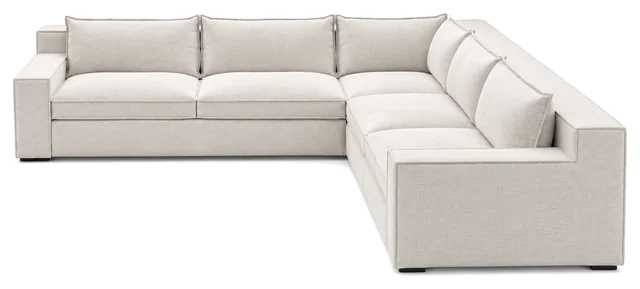
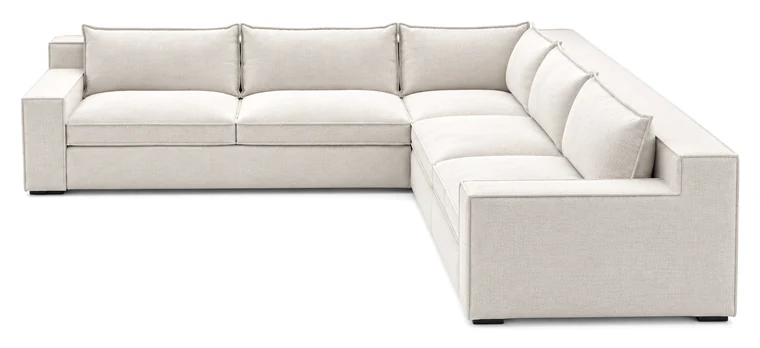
Fotos de categoría en tono claro, modular completo y foto editable desde el admin
Claude-Session: https://claude.ai/code/session_01VTdVdZyDkrQh4EYQ2xrgpJ

diff --git a/src/admin/catalogo/AdminProducts.jsx b/src/admin/catalogo/AdminProducts.jsx
@@ -64,6 +64,7 @@ function Tabbar() {
 
 // ---------- Gestionar categorías (renombrar / activar-desactivar, sin salir de Productos) ----------
 function GestionCategoriasModal({ open, categorias, onClose, onChanged }) {
+  const [subiendo, setSubiendo] = useState(null)
   if (!open) return null
   const toggleActivo = async (row) => {
     await supabase.from('categorias').update({ activo: !row.activo }).eq('id', row.id)
@@ -74,6 +75,28 @@ function GestionCategoriasModal({ open, categorias, onClose, onChanged }) {
     await supabase.from('categorias').update({ nombre }).eq('id', row.id)
     onChanged()
   }
+  // Foto del selector "¿Qué tipo buscas?" del configurador (fondo blanco o transparente, mueble completo).
+  const cambiarFoto = async (row, file) => {
+    if (!file) return
+    if (!['image/png', 'image/jpeg', 'image/webp'].includes(file.type)) return alert('La foto debe ser PNG, JPG o WEBP.')
+    if (file.size > 4 * 1024 * 1024) return alert('La foto pesa más de 4 MB. Usa una versión más ligera.')
+    setSubiendo(row.id)
+    try {
+      const ext = file.type === 'image/png' ? 'png' : file.type === 'image/webp' ? 'webp' : 'jpg'
+      const url = await uploadProductoImage(file, `categorias/${row.slug}-${Date.now()}.${ext}`)
+      const { error } = await supabase.from('categorias').update({ imagen_url: url }).eq('id', row.id)
+      if (error) throw error
+      onChanged()
+    } catch (err) { alert(`No se pudo subir la foto: ${err.message}`) } finally { setSubiendo(null) }
+  }
+  const restablecerFoto = async (row) => {
+    setSubiendo(row.id)
+    const { error } = await supabase.from('categorias').update({ imagen_url: null }).eq('id', row.id)
+    setSubiendo(null)
+    if (error) return alert(`No se pudo restablecer: ${error.message}`)
+    onChanged()
+  }
+  const miniatura = (c) => c.imagen_url || `/categorias/${c.slug}.webp`
   return (
     <div className="adm-modal-overlay adm-open" onClick={e => { if (e.target === e.currentTarget) onClose() }}>
       <div className="adm-modal-box">
@@ -82,13 +105,30 @@ function GestionCategoriasModal({ open, categorias, onClose, onChanged }) {
           <button type="button" className="adm-drawer-close" onClick={onClose}>✕</button>
         </div>
         <div className="adm-modal-body">
+          <div className="adm-form-hint" style={{ marginBottom: 10 }}>
+            La foto es la que ve el cliente en "¿Qué tipo buscas?". Usa el mueble completo, de frente, en tono claro y con fondo blanco o transparente.
+          </div>
           <table className="adm-table">
-            <thead><tr><th>Nombre</th><th>Activa</th><th></th></tr></thead>
+            <thead><tr><th>Foto</th><th>Nombre</th><th>Activa</th><th></th></tr></thead>
             <tbody>
               {categorias.length === 0 ? (
-                <tr><td colSpan={3} className="adm-empty-note">No hay categorías aún</td></tr>
+                <tr><td colSpan={4} className="adm-empty-note">No hay categorías aún</td></tr>
               ) : categorias.map(c => (
                 <tr key={c.id}>
+                  <td style={{ width: 120 }}>
+                    <div style={{ width: 100, height: 56, display: 'flex', alignItems: 'center', justifyContent: 'center', background: '#fff', border: '1px solid #E5E7EB', borderRadius: 4 }}>
+                      <img src={miniatura(c)} alt="" style={{ maxWidth: '100%', maxHeight: '100%', objectFit: 'contain' }}
+                        onError={e => { e.currentTarget.style.display = 'none' }} />
+                    </div>
+                    <label className="adm-btn" style={{ marginTop: 6, fontSize: 11, padding: '3px 8px', display: 'inline-block', cursor: 'pointer', opacity: subiendo === c.id ? 0.6 : 1 }}>
+                      {subiendo === c.id ? 'Subiendo…' : 'Cambiar foto'}
+                      <input type="file" accept="image/png,image/jpeg,image/webp" style={{ display: 'none' }} disabled={subiendo === c.id}
+                        onChange={e => { cambiarFoto(c, e.target.files?.[0]); e.target.value = '' }} />
+                    </label>
+                    {c.imagen_url && (
+                      <button type="button" className="adm-btn" style={{ marginTop: 6, marginLeft: 4, fontSize: 11, padding: '3px 8px' }} onClick={() => restablecerFoto(c)}>Restablecer</button>
+                    )}
+                  </td>
                   <td>
                     <input className="adm-input" style={{ width: '100%' }} defaultValue={c.nombre}
                       onBlur={e => rename(c, e.target.value)} />
@@ -353,6 +393,13 @@ function InformacionGeneral({ productos, categorias, selectedId, onSelectProduct
               <option key={p.id} value={p.id}>{p.nombre} · {categorias.find(c => c.id === p.categoria_id)?.nombre ?? '—'}</option>
             ))}
           </select>
+        </div>
+        <div className="adm-card">
+          <div className="adm-card-title" style={{ marginBottom: 4 }}>Categorías y sus fotos</div>
+          <div className="adm-card-sub" style={{ marginBottom: 14 }}>
+            Cambia la foto de cada categoría del configurador ("¿Qué tipo buscas?"), su nombre o si está activa.
+          </div>
+          <button type="button" className="adm-btn adm-btn-dark" onClick={onManageCategorias}>Gestionar categorías y fotos</button>
         </div>
       </div>
     )

diff --git a/src/pages/Configurador.jsx b/src/pages/Configurador.jsx
@@ -4,7 +4,7 @@ import { useNavigate, useParams, useSearchParams } from 'react-router-dom'
 import { supabase } from '../lib/supabase'
 import { useDistribuidor } from '../contexts/DistribuidorContext'
 import Nav from '../components/Nav'
-import { CategoryIcon, CategoryPhoto, hasCategoryPhoto } from './CategoryIcons'
+import { CategoryIcon, CategoryPhoto, categoryPhotoSrc } from './CategoryIcons'
 import StickyConfigurador from './configurador/StickyConfigurador'
 import ModularesConfigurador from './configurador/ModularesConfigurador'
 import { useAgregarACotizacion } from './configurador/useAgregarACotizacion'
@@ -313,8 +313,8 @@ export default function Configurador() {
                     style={{ '--cfg-tipo-color': colorForIndex(i) }}
                     onClick={() => selectTipo(cat)}
                   >
-                    {hasCategoryPhoto(cat.slug)
-                      ? <div className="cfg-option-photo"><CategoryPhoto slug={cat.slug} /></div>
+                    {categoryPhotoSrc(cat)
+                      ? <div className="cfg-option-photo"><CategoryPhoto src={categoryPhotoSrc(cat)} /></div>
                       : <div className="cfg-option-photo"><div className="cfg-option-icon" style={{ marginBottom: 0 }}><CategoryIcon slug={cat.slug} /></div></div>}
                     <div className="cfg-option-label">{cat.nombre}</div>
                   </div>

diff --git a/src/pages/CategoryIcons.jsx b/src/pages/CategoryIcons.jsx
@@ -97,11 +97,12 @@ export function CategoryIcon({ slug }) {
   return <Icon />
 }
 
-// Fotos reales (public/categorias, fondo transparente) para el selector del
-// Configurador. Las categorías sin foto (butacas) siguen con su icono.
+// Fotos reales del selector del Configurador. Cada categoría puede tener la suya
+// (categorias.imagen_url, editable desde el admin); si no, se usa la que viene en
+// public/categorias. Las categorías sin foto (butacas) siguen con su icono.
 const CATEGORY_PHOTOS = ['sofas', 'camas', 'escuadras-l', 'chaise-lounge', 'modulares']
-export const hasCategoryPhoto = slug => CATEGORY_PHOTOS.includes(slug)
+export const categoryPhotoSrc = cat => cat?.imagen_url || (CATEGORY_PHOTOS.includes(cat?.slug) ? `/categorias/${cat.slug}.webp` : null)
 
-export function CategoryPhoto({ slug, alt = '' }) {
-  return <img src={`/categorias/${slug}.webp`} alt={alt} loading="lazy" decoding="async" />
+export function CategoryPhoto({ src, alt = '' }) {
+  return <img src={src} alt={alt} loading="lazy" decoding="async" />
 }

diff --git a/src/pages/Configurador.css b/src/pages/Configurador.css
@@ -54,7 +54,7 @@
 .cfg-option.cfg-option-foto.cfg-active { border: 0; border-bottom: 2px solid #C9663D; background: none; box-shadow: none; }
 .cfg-option.cfg-option-foto.cfg-active::after { display: none; }
 .cfg-option-photo { height: 96px; margin-bottom: 8px; display: flex; align-items: center; justify-content: center; }
-.cfg-option-photo img { max-width: 100%; max-height: 100%; object-fit: contain; transition: transform 0.2s; }
+.cfg-option-photo img { max-width: 100%; max-height: 100%; object-fit: contain; mix-blend-mode: multiply; transition: transform 0.2s; }
 .cfg-option-foto:hover .cfg-option-photo img { transform: scale(1.04); }
 .cfg-option-foto.cfg-active .cfg-option-label { font-weight: 600; }
 .cfg-option-thumb { height: 80px; border-radius: 4px; margin-bottom: 12px; background: #F1F5F9; overflow: hidden; }
